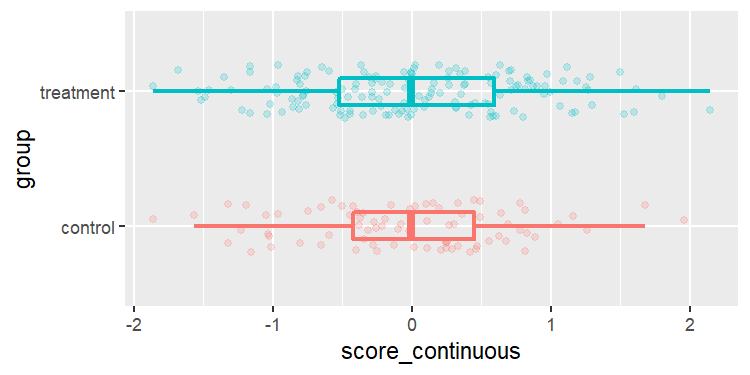
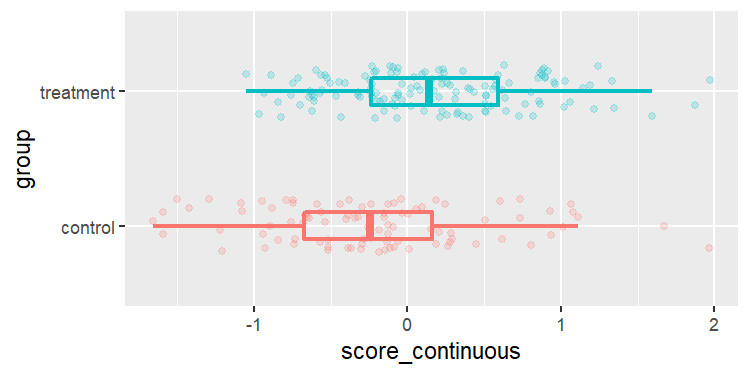
Updated README

diff --git a/README.md b/README.md
@@ -59,8 +59,8 @@ glimpse(gas_data)
 #> Rows: 50
 #> Columns: 3
 #> $ subject_id <chr> "S01", "S02", "S03", "S04", "S05", "S06", "S07", "S08", "S0~
-#> $ group      <fct> control, treatment, treatment, treatment, control, treatmen~
-#> $ subject_re <dbl> 0.31952073, -0.27143896, 0.07326835, 0.27080308, 0.27568744~
+#> $ subject_re <dbl> 0.46045898, 0.28220557, -0.04071493, 0.36163611, -0.0598294~
+#> $ group      <fct> control, treatment, control, treatment, control, treatment,~
 ```
 
 Add between 3 and 6 goals to each subject:
@@ -72,10 +72,10 @@ glimpse(gas_data)
 #> Rows: 50
 #> Columns: 5
 #> $ subject_id <chr> "S01", "S02", "S03", "S04", "S05", "S06", "S07", "S08", "S0~
-#> $ group      <fct> control, treatment, treatment, treatment, control, treatmen~
-#> $ subject_re <dbl> 0.31952073, -0.27143896, 0.07326835, 0.27080308, 0.27568744~
-#> $ n_goals    <int> 6, 6, 6, 5, 3, 6, 6, 5, 5, 6, 4, 4, 5, 5, 6, 3, 3, 6, 6, 5,~
-#> $ goals      <list> [<tbl_df[6 x 2]>], [<tbl_df[6 x 2]>], [<tbl_df[6 x 2]>], [~
+#> $ subject_re <dbl> 0.46045898, 0.28220557, -0.04071493, 0.36163611, -0.0598294~
+#> $ group      <fct> control, treatment, control, treatment, control, treatment,~
+#> $ n_goals    <int> 5, 5, 6, 3, 4, 3, 4, 5, 6, 3, 6, 6, 5, 4, 3, 3, 3, 6, 3, 6,~
+#> $ goals      <list> [<tbl_df[5 x 2]>], [<tbl_df[5 x 2]>], [<tbl_df[6 x 2]>], [~
 ```
 
 Note that `goals` is returned as a list column, so that the data frame
@@ -86,14 +86,14 @@ unnested with `tidyr` to return a data frame with one row per goal:
 gas_data %>%
   unnest(goals) %>%
   glimpse()
-#> Rows: 232
+#> Rows: 226
 #> Columns: 6
-#> $ subject_id <chr> "S01", "S01", "S01", "S01", "S01", "S01", "S02", "S02", "S0~
-#> $ group      <fct> control, control, control, control, control, control, treat~
-#> $ subject_re <dbl> 0.31952073, 0.31952073, 0.31952073, 0.31952073, 0.31952073,~
-#> $ n_goals    <int> 6, 6, 6, 6, 6, 6, 6, 6, 6, 6, 6, 6, 6, 6, 6, 6, 6, 6, 5, 5,~
-#> $ goal_num   <int> 1, 2, 3, 4, 5, 6, 1, 2, 3, 4, 5, 6, 1, 2, 3, 4, 5, 6, 1, 2,~
-#> $ goal_re    <dbl> -0.41899812, 0.14710269, -0.30369118, -0.07223033, 0.359862~
+#> $ subject_id <chr> "S01", "S01", "S01", "S01", "S01", "S02", "S02", "S02", "S0~
+#> $ subject_re <dbl> 0.46045898, 0.46045898, 0.46045898, 0.46045898, 0.46045898,~
+#> $ group      <fct> control, control, control, control, control, treatment, tre~
+#> $ n_goals    <int> 5, 5, 5, 5, 5, 5, 5, 5, 5, 5, 6, 6, 6, 6, 6, 6, 3, 3, 3, 4,~
+#> $ goal_num   <int> 1, 2, 3, 4, 5, 1, 2, 3, 4, 5, 1, 2, 3, 4, 5, 6, 1, 2, 3, 1,~
+#> $ goal_re    <dbl> -0.49826674, -0.71616514, -0.19843162, 0.14145888, -0.54450~
 ```
 
 A randomly sampled treatment effect can be added to each goal. This
@@ -113,13 +113,13 @@ glimpse(gas_data_nested)
 #> Rows: 50
 #> Columns: 5
 #> $ subject_id <chr> "S01", "S02", "S03", "S04", "S05", "S06", "S07", "S08", "S0~
-#> $ group      <fct> control, treatment, treatment, treatment, control, treatmen~
-#> $ subject_re <dbl> 0.31952073, -0.27143896, 0.07326835, 0.27080308, 0.27568744~
-#> $ n_goals    <int> 6, 6, 6, 5, 3, 6, 6, 5, 5, 6, 4, 4, 5, 5, 6, 3, 3, 6, 6, 5,~
-#> $ goals      <list> [<tbl_df[6 x 3]>], [<tbl_df[6 x 3]>], [<tbl_df[6 x 3]>], [~
+#> $ subject_re <dbl> 0.46045898, 0.28220557, -0.04071493, 0.36163611, -0.0598294~
+#> $ group      <fct> control, treatment, control, treatment, control, treatment,~
+#> $ n_goals    <int> 5, 5, 6, 3, 4, 3, 4, 5, 6, 3, 6, 6, 5, 4, 3, 3, 3, 6, 3, 6,~
+#> $ goals      <list> [<tbl_df[5 x 3]>], [<tbl_df[5 x 3]>], [<tbl_df[6 x 3]>], [~
 ```
 
-Method B is to unnest, group by subject, and apply:
+Method B is to `unnest`, `group_by` subject, and apply:
 
 ``` r
 set.seed(2)
@@ -129,14 +129,14 @@ gas_data <- gas_data %>%
   sim_treatment_effect(delta = 0.2) %>%
   ungroup()
 glimpse(gas_data)
-#> Rows: 232
+#> Rows: 226
 #> Columns: 7
-#> $ subject_id   <chr> "S01", "S01", "S01", "S01", "S01", "S01", "S02", "S02", "~
-#> $ group        <fct> control, control, control, control, control, control, tre~
-#> $ subject_re   <dbl> 0.31952073, 0.31952073, 0.31952073, 0.31952073, 0.3195207~
-#> $ n_goals      <int> 6, 6, 6, 6, 6, 6, 6, 6, 6, 6, 6, 6, 6, 6, 6, 6, 6, 6, 5, ~
-#> $ goal_num     <int> 1, 2, 3, 4, 5, 6, 1, 2, 3, 4, 5, 6, 1, 2, 3, 4, 5, 6, 1, ~
-#> $ goal_re      <dbl> -0.41899812, 0.14710269, -0.30369118, -0.07223033, 0.3598~
+#> $ subject_id   <chr> "S01", "S01", "S01", "S01", "S01", "S02", "S02", "S02", "~
+#> $ subject_re   <dbl> 0.46045898, 0.46045898, 0.46045898, 0.46045898, 0.4604589~
+#> $ group        <fct> control, control, control, control, control, treatment, t~
+#> $ n_goals      <int> 5, 5, 5, 5, 5, 5, 5, 5, 5, 5, 6, 6, 6, 6, 6, 6, 3, 3, 3, ~
+#> $ goal_num     <int> 1, 2, 3, 4, 5, 1, 2, 3, 4, 5, 1, 2, 3, 4, 5, 6, 1, 2, 3, ~
+#> $ goal_re      <dbl> -0.49826674, -0.71616514, -0.19843162, 0.14145888, -0.544~
 #> $ treatment_fe <dbl> 0.07395290, 0.28094961, 0.22933053, 0.06722077, 0.3775357~
 ```
 
@@ -163,36 +163,35 @@ gas_data <- gas_data %>%
   sim_goal_weights(weight_type = "preference" ) %>%
   ungroup()
 glimpse(gas_data)
-#> Rows: 232
+#> Rows: 226
 #> Columns: 8
-#> $ subject_id   <chr> "S01", "S01", "S01", "S01", "S01", "S01", "S02", "S02", "~
-#> $ group        <fct> control, control, control, control, control, control, tre~
-#> $ subject_re   <dbl> 0.31952073, 0.31952073, 0.31952073, 0.31952073, 0.3195207~
-#> $ n_goals      <int> 6, 6, 6, 6, 6, 6, 6, 6, 6, 6, 6, 6, 6, 6, 6, 6, 6, 6, 5, ~
-#> $ goal_num     <int> 1, 2, 3, 4, 5, 6, 1, 2, 3, 4, 5, 6, 1, 2, 3, 4, 5, 6, 1, ~
-#> $ goal_re      <dbl> -0.41899812, 0.14710269, -0.30369118, -0.07223033, 0.3598~
+#> $ subject_id   <chr> "S01", "S01", "S01", "S01", "S01", "S02", "S02", "S02", "~
+#> $ subject_re   <dbl> 0.46045898, 0.46045898, 0.46045898, 0.46045898, 0.4604589~
+#> $ group        <fct> control, control, control, control, control, treatment, t~
+#> $ n_goals      <int> 5, 5, 5, 5, 5, 5, 5, 5, 5, 5, 6, 6, 6, 6, 6, 6, 3, 3, 3, ~
+#> $ goal_num     <int> 1, 2, 3, 4, 5, 1, 2, 3, 4, 5, 1, 2, 3, 4, 5, 6, 1, 2, 3, ~
+#> $ goal_re      <dbl> -0.49826674, -0.71616514, -0.19843162, 0.14145888, -0.544~
 #> $ treatment_fe <dbl> 0.07395290, 0.28094961, 0.22933053, 0.06722077, 0.3775357~
-#> $ goal_weight  <int> 6, 2, 1, 5, 3, 4, 3, 6, 2, 5, 4, 1, 6, 1, 3, 2, 5, 4, 5, ~
+#> $ goal_weight  <int> 5, 2, 3, 4, 1, 2, 1, 5, 3, 4, 3, 6, 2, 5, 4, 1, 2, 3, 1, ~
 ```
 
 There are a few different options of goal weights available, which are
 explained in the function documentation (`?sim_goal_weights`). The
 “preference” weights here randomly apply integer weights from 1 to the
-number of goals per subject. For instance, this subject with 6 goals:
+number of goals per subject. For instance, this subject with 5 goals:
 
 ``` r
 gas_data %>%
   filter(subject_id == "S01") %>%
   select(n_goals, goal_num, goal_weight)
-#> # A tibble: 6 x 3
+#> # A tibble: 5 x 3
 #>   n_goals goal_num goal_weight
 #>     <int>    <int>       <int>
-#> 1       6        1           6
-#> 2       6        2           2
-#> 3       6        3           1
-#> 4       6        4           5
-#> 5       6        5           3
-#> 6       6        6           4
+#> 1       5        1           5
+#> 2       5        2           2
+#> 3       5        3           3
+#> 4       5        4           4
+#> 5       5        5           1
 ```
 
 The next step is to apply all of the fixed and random effects to get a
@@ -205,17 +204,17 @@ gas_data <- gas_data %>%
       subject_re + goal_re
   )
 glimpse(gas_data)
-#> Rows: 232
+#> Rows: 226
 #> Columns: 9
-#> $ subject_id       <chr> "S01", "S01", "S01", "S01", "S01", "S01", "S02", "S02~
-#> $ group            <fct> control, control, control, control, control, control,~
-#> $ subject_re       <dbl> 0.31952073, 0.31952073, 0.31952073, 0.31952073, 0.319~
-#> $ n_goals          <int> 6, 6, 6, 6, 6, 6, 6, 6, 6, 6, 6, 6, 6, 6, 6, 6, 6, 6,~
-#> $ goal_num         <int> 1, 2, 3, 4, 5, 6, 1, 2, 3, 4, 5, 6, 1, 2, 3, 4, 5, 6,~
-#> $ goal_re          <dbl> -0.41899812, 0.14710269, -0.30369118, -0.07223033, 0.~
+#> $ subject_id       <chr> "S01", "S01", "S01", "S01", "S01", "S02", "S02", "S02~
+#> $ subject_re       <dbl> 0.46045898, 0.46045898, 0.46045898, 0.46045898, 0.460~
+#> $ group            <fct> control, control, control, control, control, treatmen~
+#> $ n_goals          <int> 5, 5, 5, 5, 5, 5, 5, 5, 5, 5, 6, 6, 6, 6, 6, 6, 3, 3,~
+#> $ goal_num         <int> 1, 2, 3, 4, 5, 1, 2, 3, 4, 5, 1, 2, 3, 4, 5, 6, 1, 2,~
+#> $ goal_re          <dbl> -0.49826674, -0.71616514, -0.19843162, 0.14145888, -0~
 #> $ treatment_fe     <dbl> 0.07395290, 0.28094961, 0.22933053, 0.06722077, 0.377~
-#> $ goal_weight      <int> 6, 2, 1, 5, 3, 4, 3, 6, 2, 5, 4, 1, 6, 1, 3, 2, 5, 4,~
-#> $ score_continuous <dbl> -0.0994773905, 0.4666234174, 0.0158295496, 0.24729039~
+#> $ goal_weight      <int> 5, 2, 3, 4, 1, 2, 1, 5, 3, 4, 3, 6, 2, 5, 4, 1, 2, 3,~
+#> $ score_continuous <dbl> -0.03780777, -0.25570616, 0.26202736, 0.60191785, -0.~
 
 gas_data %>%
   ggplot(aes(y = group, x = score_continuous, color = group)) +
@@ -252,7 +251,7 @@ gas_data %>%
 
 <img src="man/figures/README-score_discrete-1.png" width="100%" />
 
-There is then a `calc_score()` function to compute an aggregate goal
+There is then a `calc_tscore()` function to compute an aggregate goal
 score based on the formula proposed by (Kiresuk and Sherman 1968):
 
 ``` r
@@ -278,17 +277,17 @@ d <- sim_trial()
 glimpse(d)
 #> Rows: 179
 #> Columns: 11
-#> $ subject_id       <chr> "S01", "S01", "S01", "S01", "S02", "S02", "S02", "S03~
-#> $ group            <fct> treatment, treatment, treatment, treatment, treatment~
-#> $ subject_re       <dbl> 0.87622970, 0.87622970, 0.87622970, 0.87622970, -1.00~
-#> $ n_goals          <int> 4, 4, 4, 4, 3, 3, 3, 4, 4, 4, 4, 4, 4, 4, 4, 6, 6, 6,~
-#> $ goal_num         <int> 1, 2, 3, 4, 1, 2, 3, 1, 2, 3, 4, 1, 2, 3, 4, 1, 2, 3,~
-#> $ goal_re          <dbl> 0.71485917, -1.00022291, -0.94106351, -0.64104661, -0~
-#> $ treatment_fe     <dbl> 0.474106143, 0.333823757, 0.154467192, 0.035884032, 0~
+#> $ subject_id       <chr> "S01", "S01", "S01", "S02", "S02", "S02", "S02", "S03~
+#> $ subject_re       <dbl> -0.0886928, -0.0886928, -0.0886928, -0.1597723, -0.15~
+#> $ group            <fct> control, control, control, control, control, control,~
+#> $ n_goals          <int> 3, 3, 3, 4, 4, 4, 4, 4, 4, 4, 4, 6, 6, 6, 6, 6, 6, 5,~
+#> $ goal_num         <int> 1, 2, 3, 1, 2, 3, 4, 1, 2, 3, 4, 1, 2, 3, 4, 5, 6, 1,~
+#> $ goal_re          <dbl> -0.09686316, 0.36462036, 0.51420243, -0.15359517, 0.3~
+#> $ treatment_fe     <dbl> 0.333823757, 0.154467192, 0.035884032, 0.457176979, 0~
 #> $ goal_weight      <dbl> 1, 1, 1, 1, 1, 1, 1, 1, 1, 1, 1, 1, 1, 1, 1, 1, 1, 1,~
-#> $ score_continuous <dbl> 2.06519502, 0.20983055, 0.08963339, 0.27106712, -0.67~
-#> $ score_discrete   <dbl> 2, 0, 0, 1, -1, -2, -1, 2, 0, 0, 0, 1, 2, 2, 0, -1, -~
-#> $ tscore           <dbl> 60.88214, 60.88214, 60.88214, 60.88214, 31.74258, 31.~
+#> $ score_continuous <dbl> -0.18555595, 0.27592757, 0.42550963, -0.31336745, 0.2~
+#> $ score_discrete   <dbl> 0, 1, 1, -1, 0, 0, 1, 2, 2, 1, 1, 2, 2, 1, 1, 1, 2, 0~
+#> $ tscore           <dbl> 59.12871, 59.12871, 59.12871, 50.00000, 50.00000, 50.~
 ```
 
 Those defaults are listed below:
@@ -303,6 +302,9 @@ formals(sim_trial)
 #> 
 #> $group_allocation
 #> list(control = 0.5, treatment = 0.5)
+#> 
+#> $random_allocation
+#> [1] TRUE
 #> 
 #> $n_goals
 #> NULL
@@ -334,7 +336,7 @@ formals(sim_trial)
 The recommended workflow for running many simulations of GAS trials is
 as follows:
 
-1.  Choose your trial parameters
+1.  Choose your trial parameters, e.g.
     -   Number of subjects `n_subjects`
     -   Group allocation `group_allocation`
     -   Treatment effect `delta`
@@ -342,9 +344,11 @@ as follows:
     -   Number of goals per subject: `n_goals`, `n_goals_range`, or
         `n_goals_prob`
     -   Goal weights `weight_type`
+    -   Attainment level thresholds `thresh`
 3.  Choose simulation parameters
-    -   Random seed via `set.seed()`
+    -   Set random seed via `set.seed()` for reproducible results
     -   Number of trials to simulate `n_sim`
+4.  Wrap these choices in a custom function to run it `n_sim` times
 
 For the first two steps, the `sim_trial()` function can be used as a
 shortcut. For instance, if we want to simulate 20 subjects with 3 goals
@@ -356,21 +360,47 @@ sim_trial(n_subjects = 20, n_goals = 3, delta = 0.5) %>%
 #> Rows: 60
 #> Columns: 11
 #> $ subject_id       <chr> "S01", "S01", "S01", "S02", "S02", "S02", "S03", "S03~
-#> $ group            <fct> treatment, treatment, treatment, treatment, treatment~
-#> $ subject_re       <dbl> -0.19069799, -0.19069799, -0.19069799, -0.60849046, -~
+#> $ subject_re       <dbl> -0.17212203, -0.17212203, -0.17212203, 0.04658294, 0.~
+#> $ group            <fct> control, control, control, control, control, control,~
 #> $ n_goals          <dbl> 3, 3, 3, 3, 3, 3, 3, 3, 3, 3, 3, 3, 3, 3, 3, 3, 3, 3,~
 #> $ goal_num         <int> 1, 2, 3, 1, 2, 3, 1, 2, 3, 1, 2, 3, 1, 2, 3, 1, 2, 3,~
-#> $ goal_re          <dbl> -0.10167264, 0.39003476, -0.49797173, 0.63681266, 0.1~
-#> $ treatment_fe     <dbl> 0.557580325, 0.058427635, 0.201604024, 0.820417159, 0~
+#> $ goal_re          <dbl> 0.72181971, -0.72436918, 1.26319485, -1.00172229, 0.5~
+#> $ treatment_fe     <dbl> 0.058427635, 0.201604024, 0.820417159, 0.839256175, 0~
 #> $ goal_weight      <dbl> 1, 1, 1, 1, 1, 1, 1, 1, 1, 1, 1, 1, 1, 1, 1, 1, 1, 1,~
-#> $ score_continuous <dbl> 0.265209687, 0.257764402, -0.487065703, 0.848739354, ~
-#> $ score_discrete   <dbl> 1, 1, -1, 2, 1, 0, 2, 1, 1, 1, 0, -1, -1, -1, 0, 2, 0~
-#> $ tscore           <dbl> 54.56435, 54.56435, 54.56435, 63.69306, 63.69306, 63.~
+#> $ score_continuous <dbl> 0.549697683, -0.896491207, 1.091072819, -0.955139351,~
+#> $ score_discrete   <dbl> 1, -2, 2, -2, 1, -1, 0, 1, -1, 1, -1, -1, -1, 0, -1, ~
+#> $ tscore           <dbl> 54.56435, 54.56435, 54.56435, 40.87129, 40.87129, 40.~
 ```
 
-To incorporate the third step, it is recommended to write a custom
-function. For example, if we just want to vary the number of subjects
-and the treatment effect (leaving all other options the same/default):
+Then step 3 involves just a few extra lines of code to set the seed and
+run it `n_sim` times:
+
+``` r
+set.seed(15)
+
+n_sims <- 10
+sims1 <- tibble(
+  sim = 1:n_sims,
+  data = map(
+    sim,
+    ~sim_trial(n_subjects = 20, delta = 0.3)
+  )
+)
+glimpse(sims1)
+#> Rows: 10
+#> Columns: 2
+#> $ sim  <int> 1, 2, 3, 4, 5, 6, 7, 8, 9, 10
+#> $ data <list> [<tbl_df[91 x 11]>], [<tbl_df[91 x 11]>], [<tbl_df[91 x 11]>], [<~
+```
+
+This returns a row per simulation, with the data nested in the `data`
+column.
+
+Step 4, writing a custom function, is not required, but highly
+recommended, because it allows quick adjustment of key parameters. For
+example, if we just want to vary the number of subjects and the
+treatment effect (leaving all other options the same/default), we would
+write a function similar to:
 
 ``` r
 run_simulations <- function(seed, n_sim, n_subjects, delta) {
@@ -396,18 +426,17 @@ Then we can run 100 simulation with `n_subjects` = 20 and `delta` = 0.3
 ``` r
 library(tictoc)
 tic()
-sims1 <- run_simulations(seed = 52, n_sim = 100,
+sims2 <- run_simulations(seed = 52, n_sim = 100,
                          n_subjects = 20, delta = 0.3)
 toc()
-#> 2.86 sec elapsed
+#> 3.06 sec elapsed
 ```
 
-The custom function returns a row per simulation, with the data nested
-in the `data` column. Here is an example of unnesting and plotting the
-T-scores of the first 10 simulations:
+Here is an example of unnesting and plotting the T-scores of the first
+10 simulations:
 
 ``` r
-sims1 %>%
+sims2 %>%
   unnest(data) %>%
   filter(sim <= 10) %>%
   distinct(sim, n_subjects, delta,
@@ -424,7 +453,7 @@ sims1 %>%
 ## Todo
 
 -   Update documentation for `sim_trial`
--   Continue `data-generating-model` vignette
+-   Continue `internal-consistency` vignette
 -   Write unit tests
 -   Write `power-calculation` vignette
 
